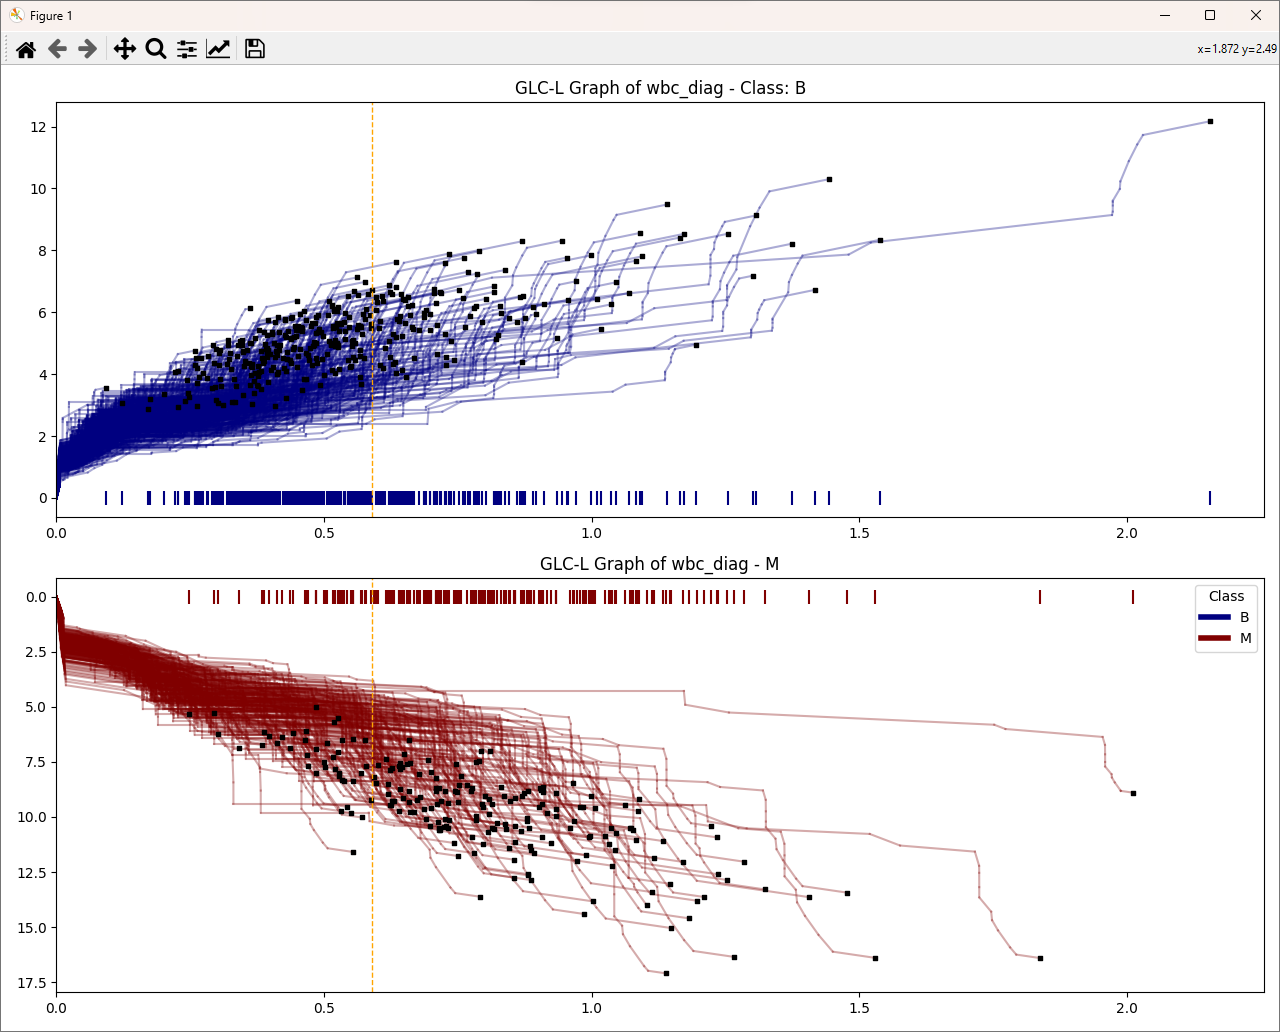
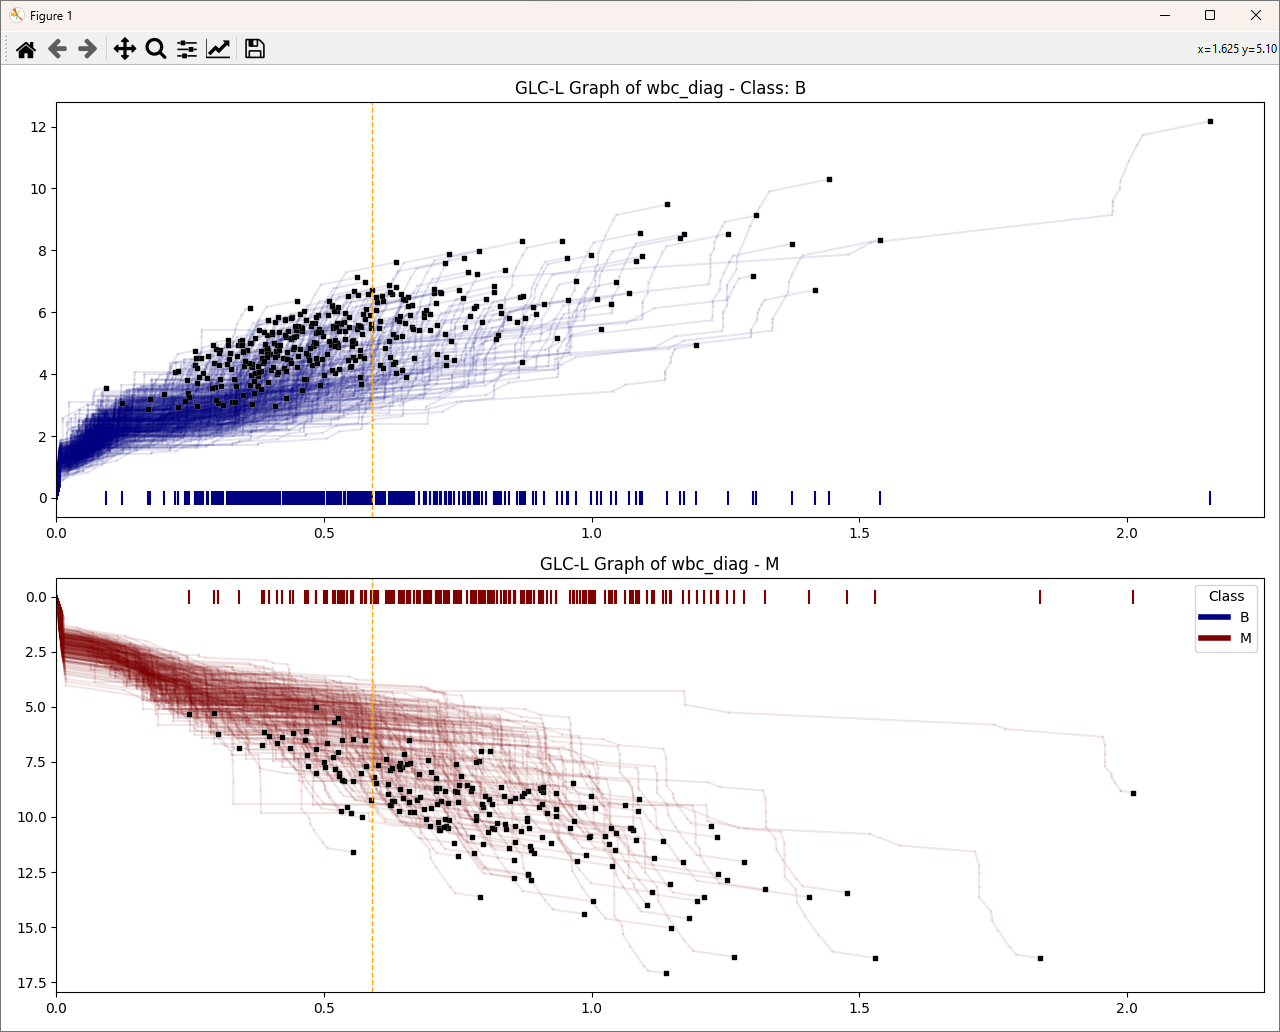
GLC opacity/backdrop endpoints, ionosphere data

diff --git a/glc_line_plotter.py b/glc_line_plotter.py
@@ -112,9 +112,10 @@ def plot_glyphs(df, dataset_name, coefficients=None):
             theta_i = angles[i]
             x_i = x_prev + a_i * np.cos(theta_i)
             y_i = y_prev + a_i * np.sin(theta_i)
-            plt.plot([x_prev, x_i], [y_prev, y_i], color=label_to_color[row[label_column]], alpha=0.33, zorder=1)
+            plt.plot([x_prev, x_i], [y_prev, y_i], color=label_to_color[row[label_column]], alpha=0.1, zorder=1)
             x_prev, y_prev = x_i, y_i
         plt.scatter(x_i, 0, marker='|', color=label_to_color[row[label_column]], s=100)
+        plt.scatter(x_i, y_i, marker='s', color='white', s=12, zorder=2)
         plt.scatter(x_i, y_i, marker='s', color='black', s=10, zorder=2)
     # Find the midpoint for the LDA separation line and plot it
     midpoint_x = find_lda_separation_line(df, lda_model, feature_columns, label_column, angles)
@@ -131,9 +132,10 @@ def plot_glyphs(df, dataset_name, coefficients=None):
                 theta_i = angles[i]
                 x_i = x_prev + a_i * np.cos(theta_i)
                 y_i = y_prev + a_i * np.sin(theta_i)
-                plt.plot([x_prev, x_i], [y_prev, y_i], color=label_to_color[row[label_column]], alpha=0.33, zorder=1)
+                plt.plot([x_prev, x_i], [y_prev, y_i], color=label_to_color[row[label_column]], alpha=0.1, zorder=1)
                 x_prev, y_prev = x_i, y_i
             plt.scatter(x_i, 0, marker='|', color=label_to_color[row[label_column]], s=100)
+            plt.scatter(x_i, y_i, marker='s', color='white', s=12, zorder=2)
             plt.scatter(x_i, y_i, marker='s', color='black', s=10, zorder=2)
     # Find the midpoint for the LDA separation line and plot it
     midpoint_x = find_lda_separation_line(df, lda_model, feature_columns, label_column, angles)
